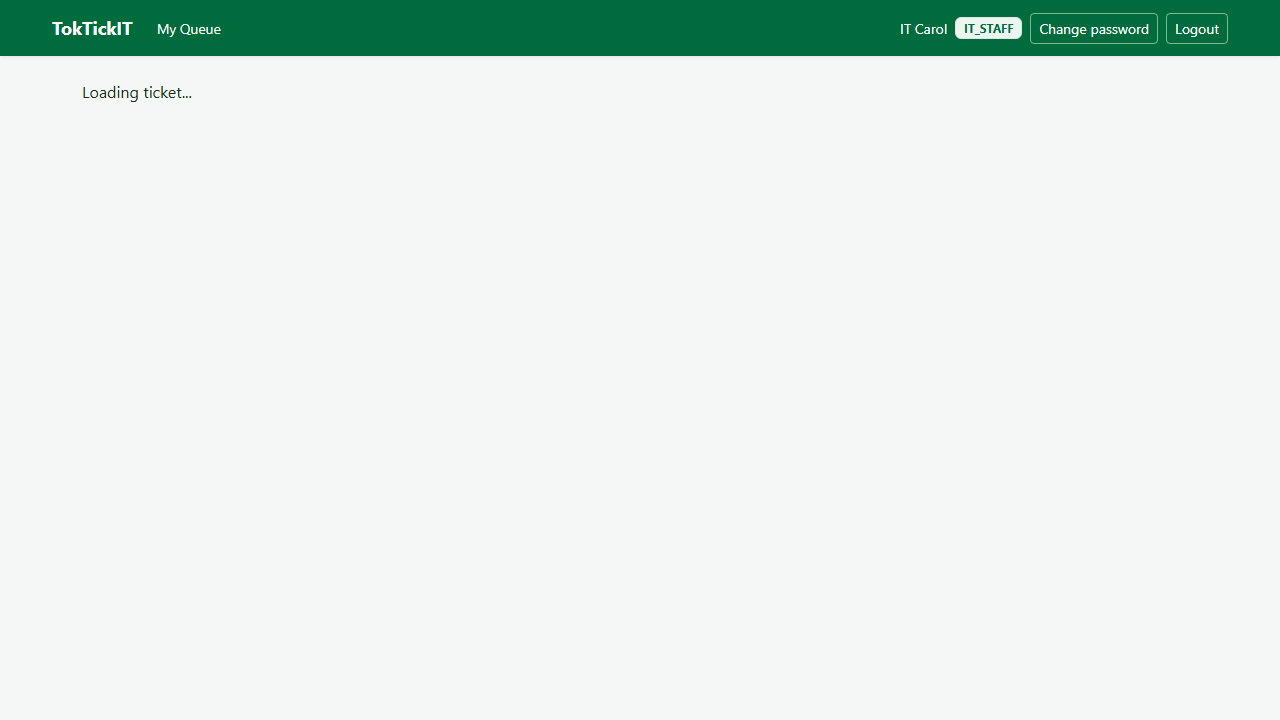
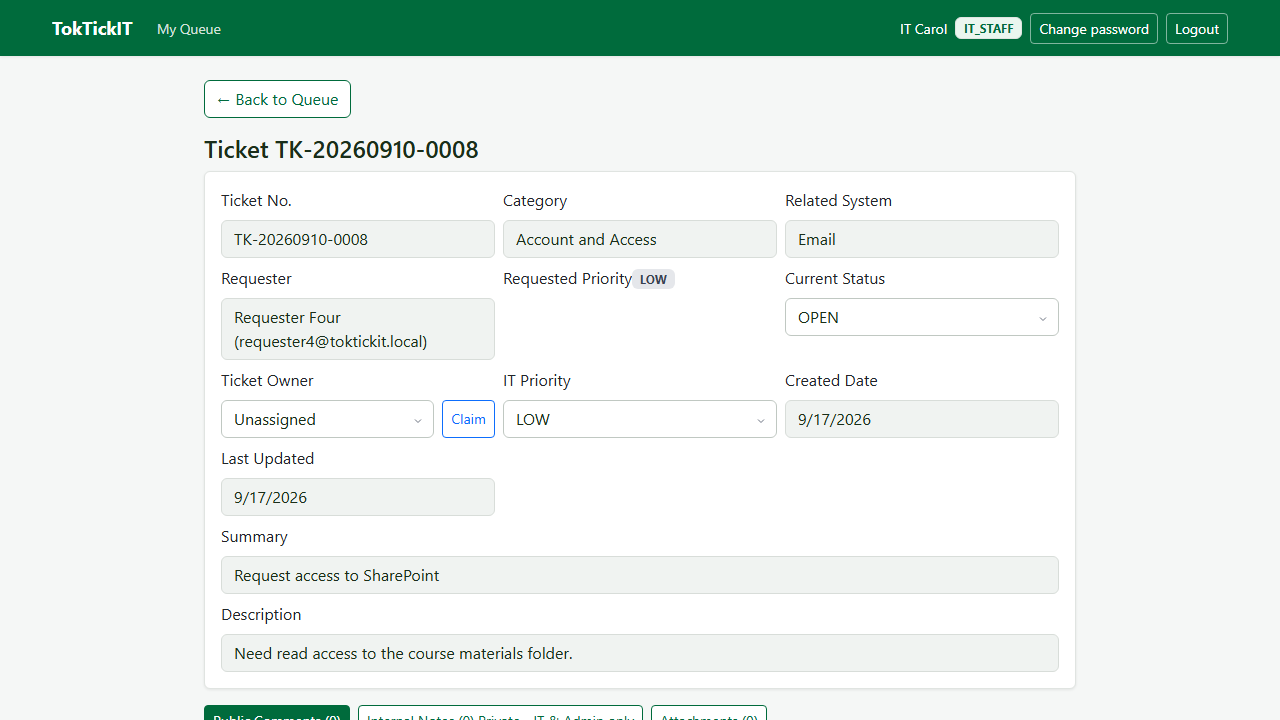
fix(lab-03): wait for ticket content before detail screenshots

diff --git a/e2e/lab-03/screenshots.spec.ts b/e2e/lab-03/screenshots.spec.ts
@@ -77,6 +77,8 @@ test.describe('VIS-01 — Lab 3 responsive screenshots', () => {
     await loginAsStaff(page);
     await page.getByRole('button', { name: /^open$/i }).filter({ visible: true }).first().click();
     await expect(page).toHaveURL(/\/staff\/tickets\/\d+/);
+    // URL changes before the ticket payload arrives — wait for loaded content.
+    await expect(page.getByRole('tab', { name: /public comments/i })).toBeVisible({ timeout: 15000 });
     for (const viewport of VIEWPORTS) {
       await page.setViewportSize({ width: viewport.width, height: viewport.height });
       await page.screenshot({ path: `artifacts/lab-03/screenshots/staff-ticket-detail/detail-${viewport.name}.png` });
